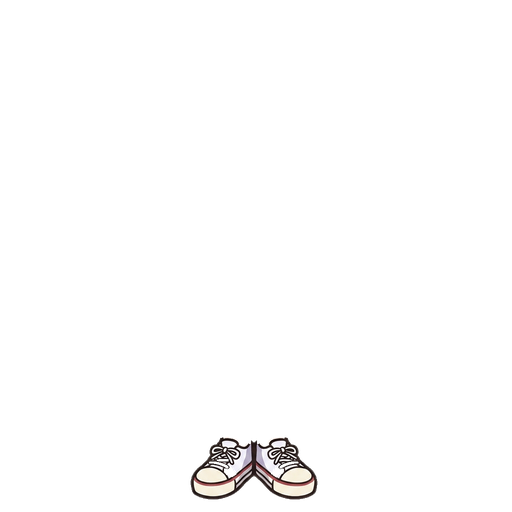
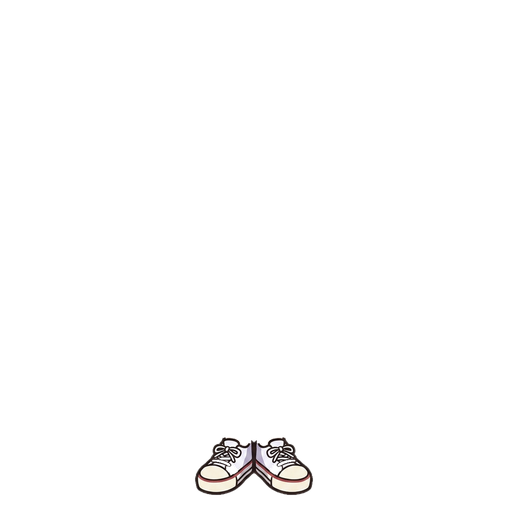
Shrink the worn sneakers to 0.93
They were the biggest shoe in the closet by both measures: 254px wide
reaching to y=998, against 236/968 for the loafers and 189/986 for the
Mary Janes, on a bare foot 150px wide ending at 939.

A SCALE dict in the pipeline rather than a hand-resized PNG, so the
layer still comes from the render. It scales about the TOP CENTRE of the
layer's own bounding box, which is the part that matters: the opening
stays put on the ankle and only the sole moves up, 999 -> 990. The
uncovered bare foot went 2846px -> 2669px, so the tighter opening grips
the leg rather than exposing it.

Crop-resize-paste rather than an affine transform, to get LANCZOS — a
shoe is mostly outline and bilinear softens it visibly at this size.

The icon is untouched: it comes from the supplied drawing, and the
complaint was about the worn image.

Changed region(s): [[0.375, 0.8438, 0.625, 1.0]]

diff --git a/web/index.html b/web/index.html
@@ -16,7 +16,7 @@
 <meta name="apple-mobile-web-app-title" content="Moodmate">
 <link rel="manifest" href="manifest.webmanifest">
 <link rel="apple-touch-icon" href="assets/appicon-192.png">
-<link rel="stylesheet" href="styles.css?v=ce8d6e7a02">
+<link rel="stylesheet" href="styles.css?v=e2d2fa4e84">
 <script>
   /* Runs before first paint, so a chosen theme doesn't arrive a frame late as
      a white flash. app.js reads the same key and owns it from there. */
@@ -160,7 +160,7 @@
 <div class="lightbox" id="lightbox" hidden></div>
 <div class="lightbox char-zoom" id="char-zoom" hidden></div>
 
-<script src="i18n.js?v=ce8d6e7a02"></script>
-<script src="app.js?v=ce8d6e7a02"></script>
+<script src="i18n.js?v=e2d2fa4e84"></script>
+<script src="app.js?v=e2d2fa4e84"></script>
 </body>
 </html>

diff --git a/web/sw.js b/web/sw.js
@@ -5,7 +5,7 @@
 // Stamped by export_web.py from a hash of the built assets. It must change
 // whenever any asset does, because the image rule below is cache-first and a
 // cache keyed by a constant name is never invalidated.
-const CACHE = "moodmate-ce8d6e7a02";
+const CACHE = "moodmate-e2d2fa4e84";
 const SHELL = [
   ".", "index.html", "styles.css", "app.js",
   "manifest.webmanifest", "assets/items.json",

diff --git a/process_item.py b/process_item.py
@@ -576,6 +576,13 @@ def main(render_path, name, master_name="base_char_master.png", dark_override=No
     out = T.copy()
     out[..., 3] = np.where(mask, T[..., 3], 0)
     layer = Image.fromarray(out.astype("uint8"))
+    if name in SCALE:
+        before = layer.getbbox()
+        layer = scale_layer(layer, SCALE[name])
+        after = layer.getbbox()
+        print("scaled to %.2f: %dx%d -> %dx%d, bottom %d -> %d"
+              % (SCALE[name], before[2] - before[0], before[3] - before[1],
+                 after[2] - after[0], after[3] - after[1], before[3], after[3]))
     layer.save(os.path.join(here, "items", "item_%s.png" % name))
 
     # A standalone drawing of the garment, if one was supplied beside the
@@ -606,8 +613,9 @@ def main(render_path, name, master_name="base_char_master.png", dark_override=No
 
     err = np.abs(flat(np.array(worn).astype(int)) - flat(T)).max(axis=2)
     print("item %d px, icon %s" % (mask.sum(), icon.size))
-    print("worn vs render: mean %.2f, >60 on %.3f%% of pixels" %
-          (err.mean(), (err > 60).mean() * 100))
+    print("worn vs render: mean %.2f, >60 on %.3f%% of pixels%s" %
+          (err.mean(), (err > 60).mean() * 100,
+           " (resized on purpose — see SCALE)" if name in SCALE else ""))
     print("check qa/%s_alone.png for stray pixels." % name)
 
 
@@ -672,6 +680,31 @@ AS_DRAWN = {"geta": 880}
 KEEP_INNER_WHITE = {"maryjanes"}
 
 ACCESSORIES = {"roundglasses"}
+
+# Layers the generator drew oversized, and what to multiply them by. The
+# sneakers came back 254px wide and reaching to y=998, against 236/968 for the
+# loafers and 189/986 for the Mary Janes, on a bare foot that is 150px wide and
+# ends at 939 — the widest and the lowest of the three, which is what read as
+# too big. Scaled about the TOP CENTRE of its own bounding box, so the opening
+# stays on the ankle where the leg enters it and only the sole moves.
+SCALE = {"sneakers": 0.93}
+
+
+def scale_layer(layer, factor):
+    """Shrink a registered layer in place on the canvas, about its top centre.
+
+    Crop-resize-paste rather than an affine transform: resizing the tight crop
+    lets it go through LANCZOS, which a whole-canvas transform can't use, and a
+    shoe is mostly outline — bilinear softens those edges visibly at this size.
+    """
+    box = layer.getbbox()
+    crop = layer.crop(box)
+    small = crop.resize((max(1, round(crop.width * factor)),
+                         max(1, round(crop.height * factor))), Image.LANCZOS)
+    cx = (box[0] + box[2] - 1) / 2.0
+    out = Image.new("RGBA", layer.size, (0, 0, 0, 0))
+    out.paste(small, (round(cx - (cx - box[0]) * factor), box[1]))
+    return out
 
 DARK_OVERRIDES = {"male_gakuran": 55, "sailor": 55, "male_tie_shirt": 55,
                   # Her navy fill sits at luminance 50, and the automatic step
